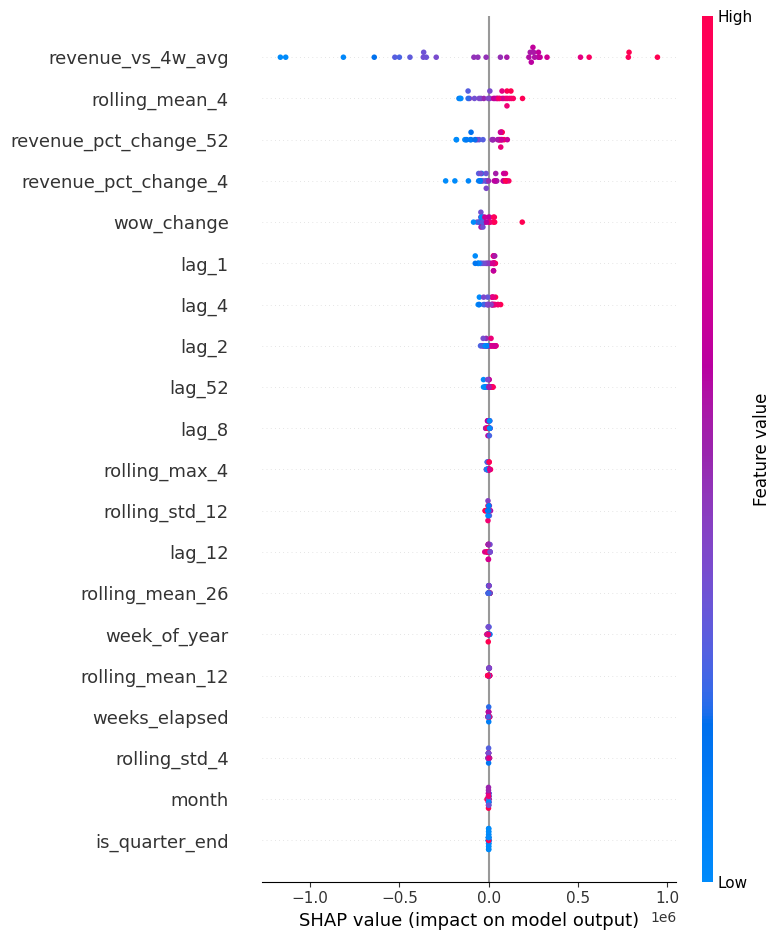
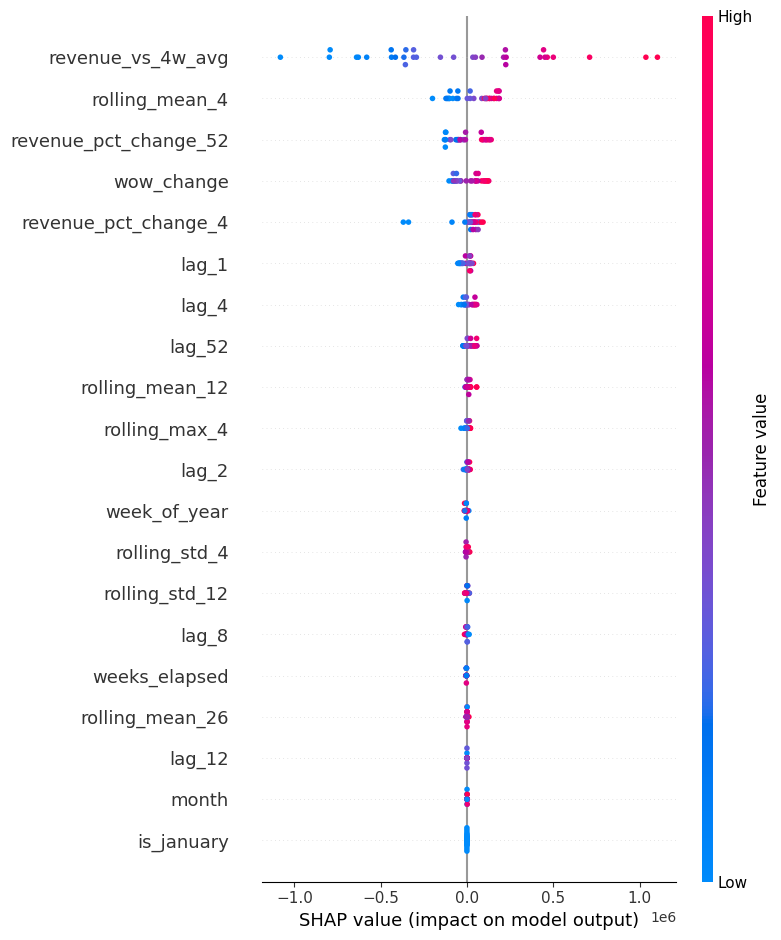
Phase 5: XGBoost rerun on new two-table data, MAPE 3.40%, SHAP confirms same feature ranking

diff --git a/xgboost_model.py b/xgboost_model.py
@@ -93,3 +93,9 @@ plt.savefig("outputs/shap_waterfall.png", bbox_inches="tight")
 plt.show()
 
 
+#_______results from waterfall model_________________
+# E[f(X)] = 5,685,144.5, is the model's baseline expected prediction averaged across all training data. Each bar then shows how much each feature pushed the prediction away from that baseline, ending at the final predicted value of roughly ₹4,697,268 at the top.
+#revenue_vs_4w_avg pulled the prediction down by ₹4,41,048 — by far the dominant factor. This means that week's revenue was running noticeably below its recent 4-week average, and the model leaned heavily on that signal to predict a lower number.
+#rolling_mean_4 pushed it back up by ₹1,05,046, partially offsetting that — the recent 4-week average itself was still reasonably healthy.
+#revenue_pct_change_52, wow_change, and lag_4 all pulled slightly down, reinforcing the "this week is underperforming its recent pattern" story.
+#lag_2, lag_1, and lag_52 pulled slightly up, adding small counterbalancing signals from recent and year-ago revenue.